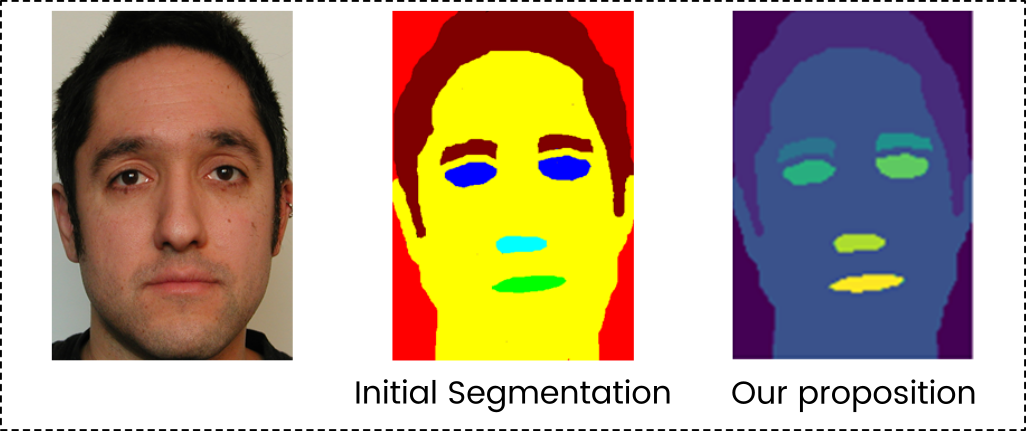
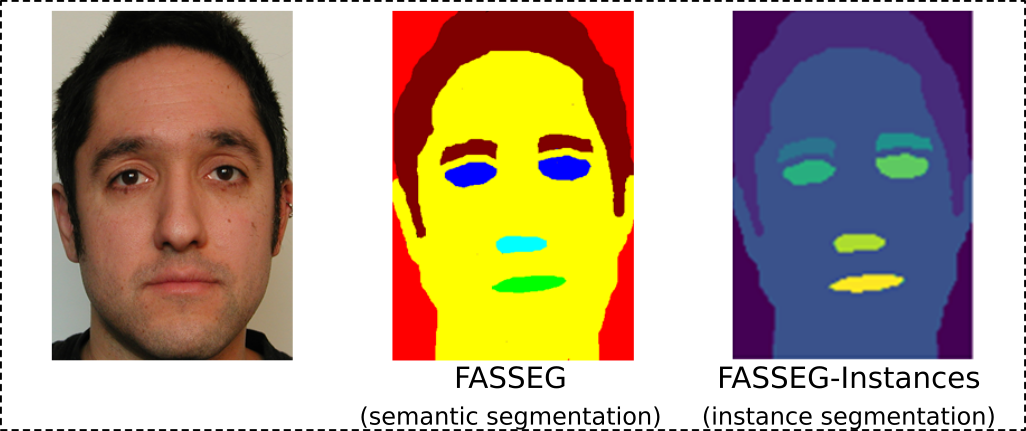
Update fig + text

Changed region(s): [[0.6862, 0.8445, 0.9669, 0.9954], [0.3431, 0.8445, 0.655, 0.9954]]

diff --git a/README.md b/README.md
@@ -1,13 +1,13 @@
 # FASSEG-instances
-This directory contains a semantic segmentation proposal for the FASSEG human face dataset (https://github.com/massimomauro/FASSEG-repository).
+This project provides an instance segmentation of the FASSEG human face dataset (https://github.com/massimomauro/FASSEG-repository).
 
 ![alt text](https://github.com/Jeremy-Chopin/FASSEG-instances/blob/main/src/fasseg_chgt.png?raw=true)
 
 ## Dataset
 
-We propose to differentiate certain elements of the human face such as the eyes (for example right eye - left eye).
+Compared to FASSEG, we distinguish certain elements of the human face such as the eyes (for example right eye - left eye).
 
-The images contain values in the interval [0,8] where : 
+Images contain integer values in the interval [0,8] : 
 - 0: background
 - 1: hair
 - 2: face
